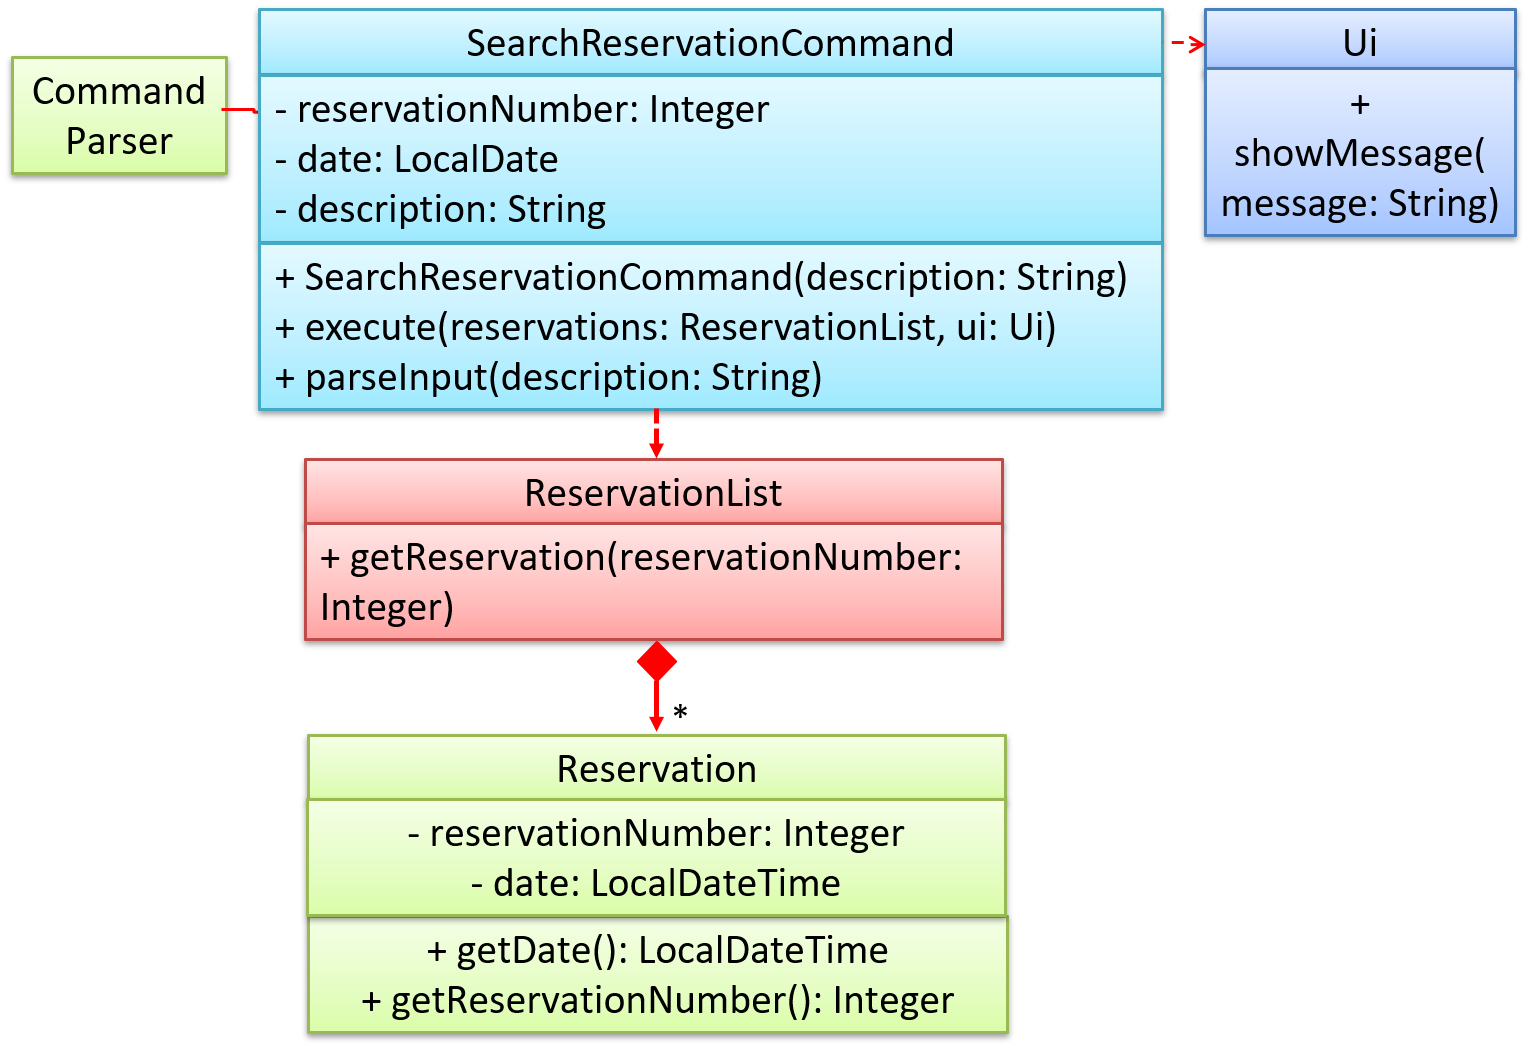
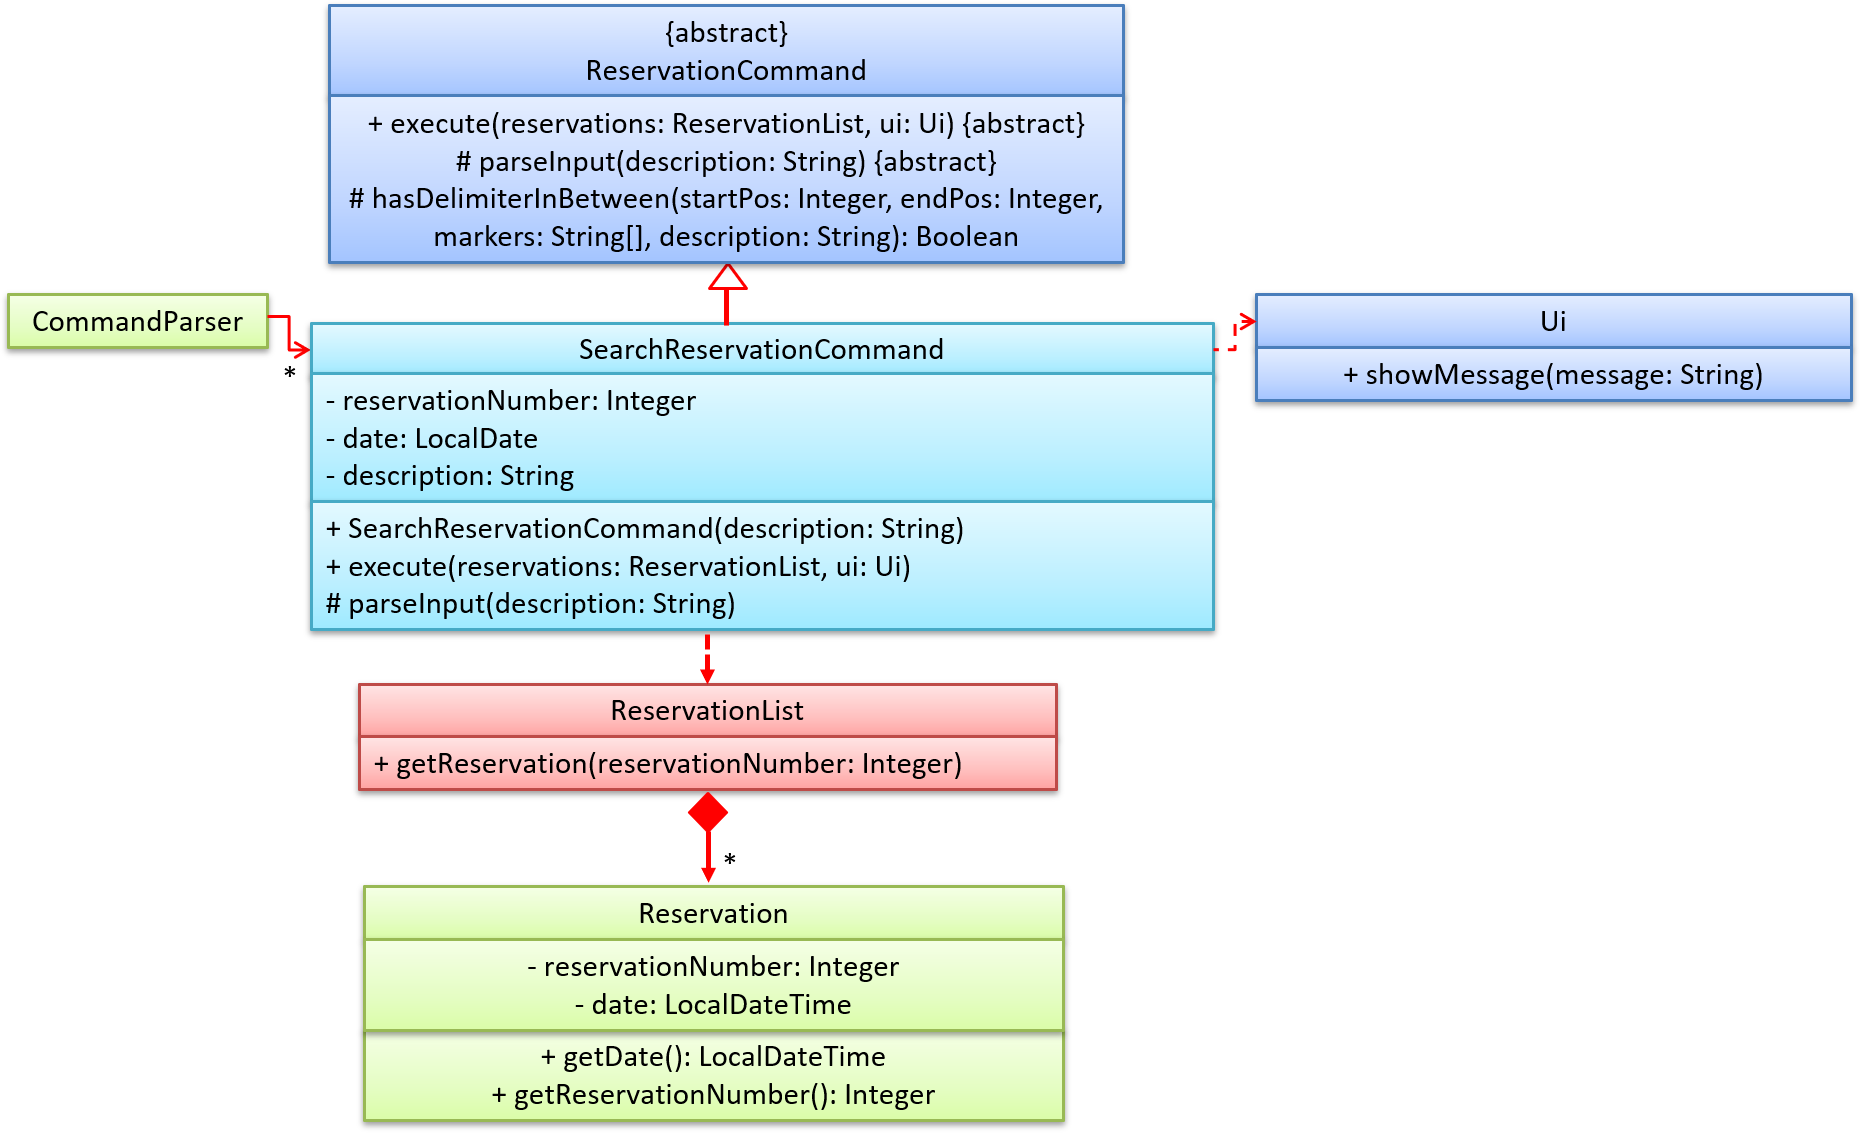
update on DG format and class diagram for search reservation

diff --git a/docs/DeveloperGuide.md b/docs/DeveloperGuide.md
@@ -89,11 +89,11 @@ The following class diagram shows how the listing operation works:
   <img src="https://user-images.githubusercontent.com/59989652/77317533-54703700-6d46-11ea-8fa7-1085ce028f55.png">
 </p>
 
-* 1. When the user first runs the application, the Main object is initialized. The Main object then initializes the ui and the stock object in its `start()` method. 
-* 2. Through its `runCommandUntilExit()` method, it then instructs the ui object to scan and read for user input. A CommandParser object is then initialized to parse this user input into a command.
-* 3. The CommandParser object detects `list stock` as the user input, in which it will then create a ListStockCommand object.
-* 4. The ListStockCommand object is then executed via its `execute(stock)` method, which takes in the stock object initialized previously and instruct it to list all ingredients through its `listIngredient()` method.
-* 5. Within  the `listIngredient()` method, a temporary `List` data structure is used to convert from the `HashMap` in the stock object. The list is then sorted by supplying a `new Comparator` that compares the ingredient's quantity. Afterwards, the sorted list is then printed to be displayed to the user.
+1. When the user first runs the application, the Main object is initialized. The Main object then initializes the ui and the stock object in its `start()` method. 
+2. Through its `runCommandUntilExit()` method, it then instructs the ui object to scan and read for user input. A CommandParser object is then initialized to parse this user input into a command.
+3. The CommandParser object detects `list stock` as the user input, in which it will then create a ListStockCommand object.
+4. The ListStockCommand object is then executed via its `execute(stock)` method, which takes in the stock object initialized previously and instruct it to list all ingredients through its `listIngredient()` method.
+5. Within  the `listIngredient()` method, a temporary `List` data structure is used to convert from the `HashMap` in the stock object. The list is then sorted by supplying a `new Comparator` that compares the ingredient's quantity. Afterwards, the sorted list is then printed to be displayed to the user.
 
 
 #### 1.2.2 Design Considerations
@@ -153,24 +153,24 @@ Given below is an example usage scenario and how the search mechanism behaves at
 Step 1. The user launches the application for the first time. An empty `reservation` will be initialized.
 
 Step 2. The user executes `add reservation; p/Peter; d/2020-03-12 12:00; n/3; c/98955555;` command to add a reservation into the `reservation` list.  
-&ensp;&ensp;&ensp;&ensp;&ensp;&ensp;Further, the user may add more reservations into the current `reservation` list.  
-&ensp;&ensp;&ensp;&ensp;&ensp;&ensp;Suppose the user executes `add reservation; p/Mary; d/2020-03-11 12:00; n/8; c/99998888;`  
-&ensp;&ensp;&ensp;&ensp;&ensp;&ensp;and `add reservation; p/Lisa; m/no spicy food please; d/2020-03-12 12:00; n/3; c/98889999;` as well.
+Further, the user may add more reservations into the current `reservation` list.  
+Suppose the user executes `add reservation; p/Mary; d/2020-03-11 12:00; n/8; c/99998888;`  
+and `add reservation; p/Lisa; m/no spicy food please; d/2020-03-12 12:00; n/3; c/98889999;` as well.
 
 Step 3. The user can now search against the current `reservation` list to see if an reservation is stored in the `reservation` list.  
-&ensp;&ensp;&ensp;&ensp;If the user executes `search reservation; r/0;`, the following result will be displayed in the image.
+If the user executes `search reservation; r/0;`, the following result will be displayed in the image.
 
 <p align="center">
     <img src="SearchByIndex.png">
 </p>
 
-&ensp;&ensp;&ensp;&ensp;If the user executes `search reservation; d/2020-03-12;`, the following result will be displayed in the image.
+If the user executes `search reservation; d/2020-03-12;`, the following result will be displayed in the image.
 
 <p align="center">
     <img src="SearchByDate.png">
 </p>
 
-&ensp;&ensp;&ensp;&ensp;If the user executes `search reservation; r/0; d/2020-03-13;`, the following result will be displayed in the image.
+If the user executes `search reservation; r/0; d/2020-03-13;`, the following result will be displayed in the image.
 
 <p align="center">
     <img src="SearchByIndexnDate.png">
@@ -210,7 +210,7 @@ Utilization of `HashMap` will be considered if the restaurant becomes more popul
   + Cons: Extra memory space is needed.
 
 **The reason to make the current choice:**  
-There is no need for objects to be stored separately given current user stories.
+There is no need for objects to be stored separately given current user stories and functionality required.
 
 <a name="search-dish"></a>
 
